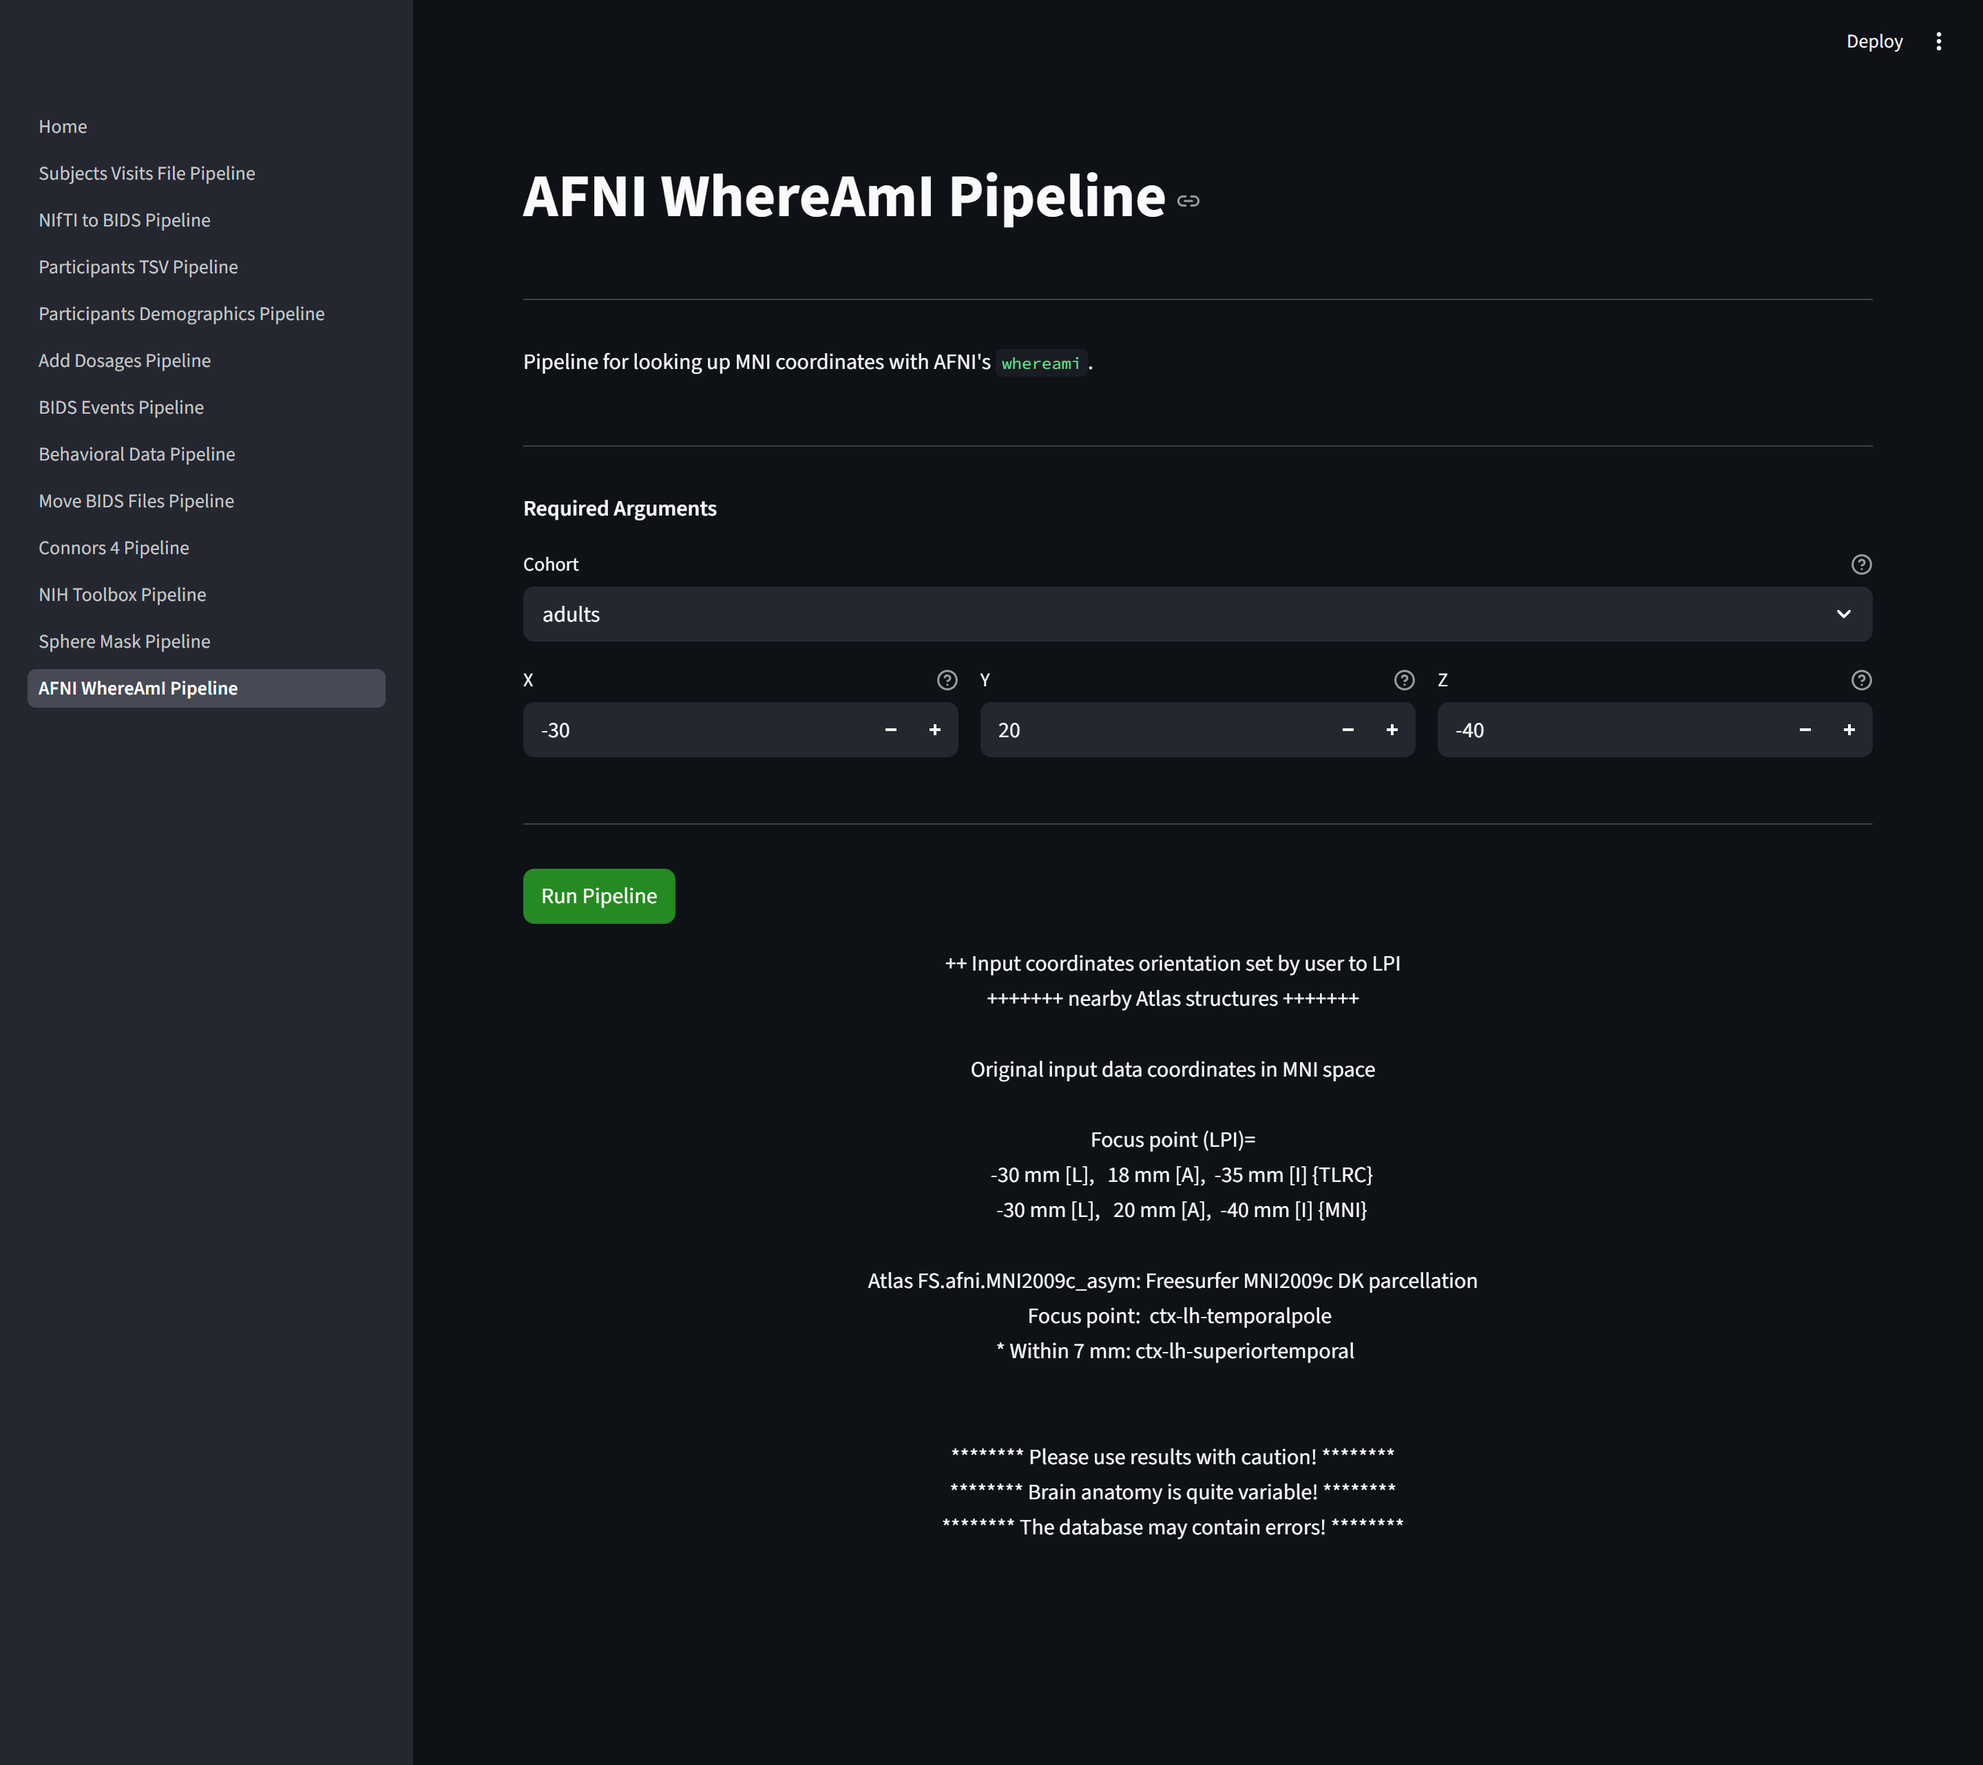
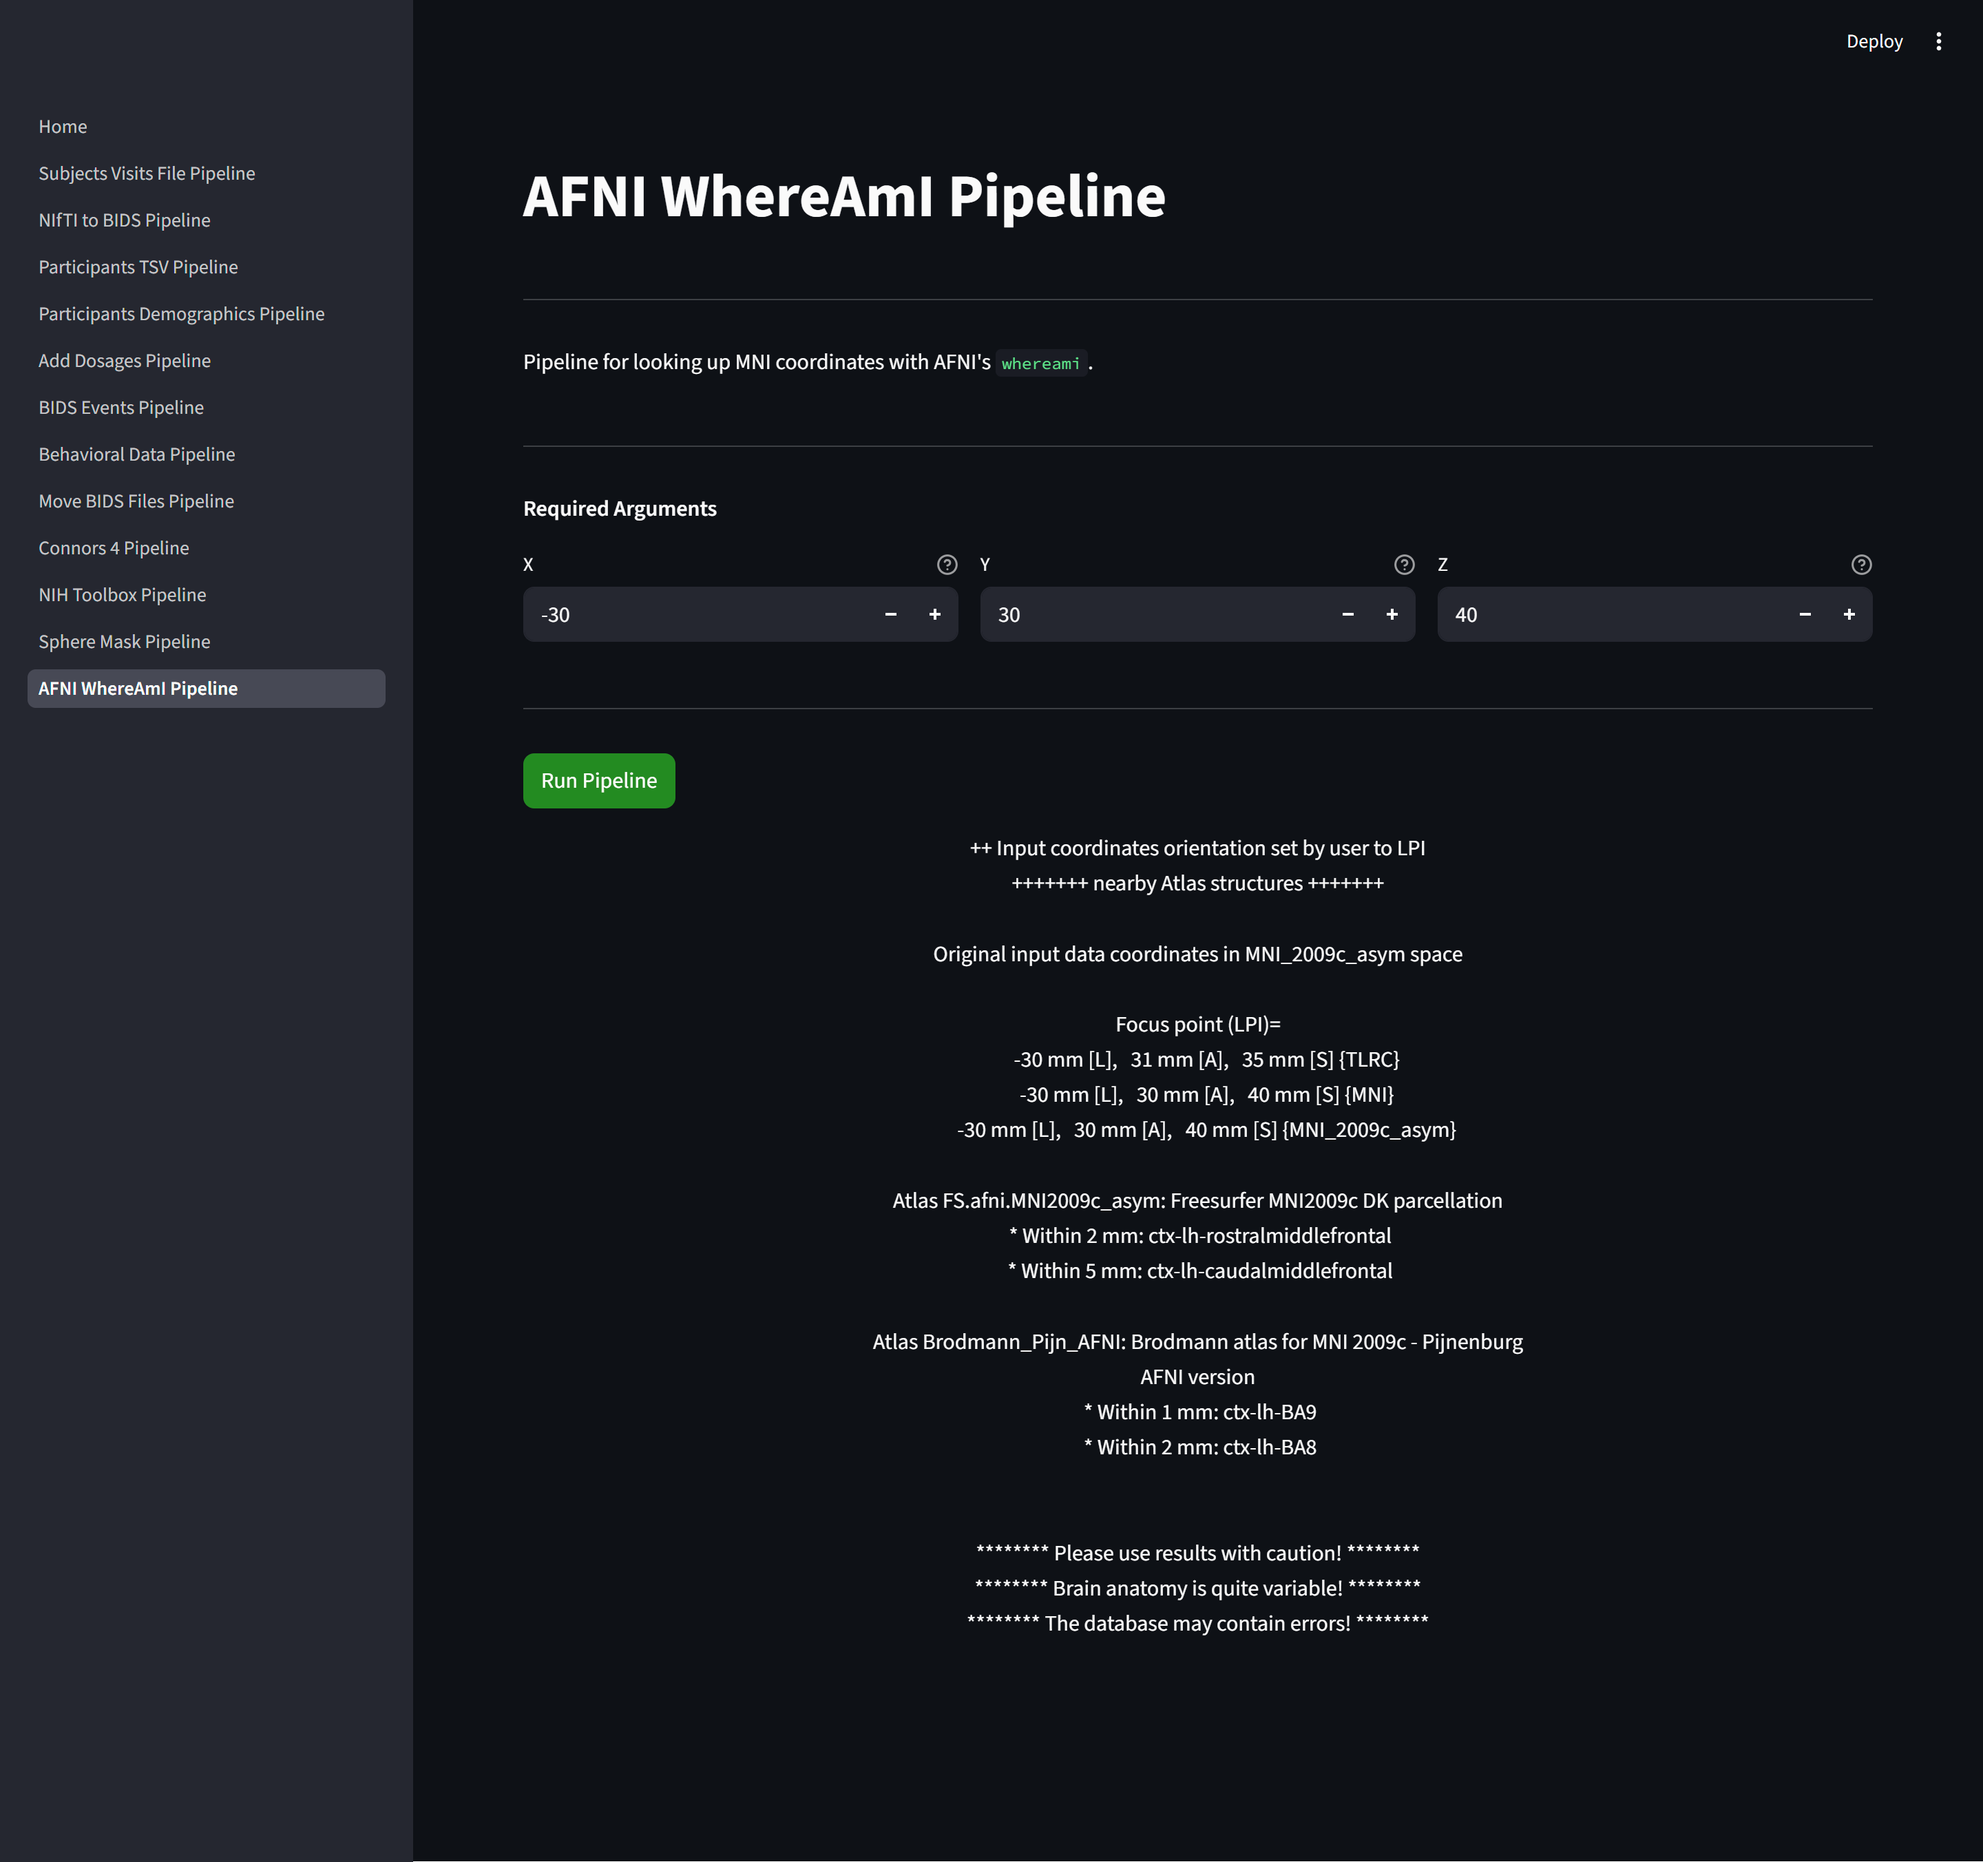
Make latest afni version

diff --git a/afni_whereami/whereami_app.py b/afni_whereami/whereami_app.py
@@ -16,8 +16,6 @@ st.divider()
 
 st.markdown("**Required Arguments**")
 
-cohort = st.selectbox("Cohort", ("kids", "adults"), help="Determines the atlas used.")
-
 col1, col2, col3 = st.columns(3)
 
 with col1:
@@ -29,15 +27,10 @@ with col2:
 with col3:
     Z = st.number_input("Z", help="Z coordinate in MNI space.", format="%d", value=0)
 
-kwargs = {
-    "cohort": cohort,
-    "mni_coordinate": [X, Y, Z],
-}
-
 st.divider()
 
 if st.button("Run Pipeline", type="primary"):
     with st.spinner("Processing..."):
         col1, col2, col3 = st.columns([1, 2, 1])
         with col2:
-            st.text(run_pipeline(**kwargs), text_alignment="center")
+            st.text(run_pipeline(mni_coordinate=[X, Y, Z]), text_alignment="center")

diff --git a/server/server.py b/server/server.py
@@ -6,21 +6,15 @@ on Oracle Cloud. It's the free tier so the instance only has 1 GB ram and 1 OCPU
 import subprocess
 from fastapi import FastAPI
 
-ATLAS_NAMES = {
-    "kids": "Haskins_Pediatric_Nonlinear_1.01",
-    "adults": "FS.afni.MNI2009c_asym",
-}
-
 app = FastAPI()
 
 
 @app.post("/")
 def whereami(request_data: dict):
-    atlas = ATLAS_NAMES[request_data["cohort"]]
     cmd = (
         f"podman exec afni whereami "
         f"{request_data['x']} {request_data['y']} {request_data['z']} "
-        f"-lpi -space MNI -atlas {atlas}"
+        f"-lpi -space MNI_2009c_asym -atlas FS.afni.MNI2009c_asym -atlas Brodmann_Pijn_AFNI"
     )
     output = subprocess.run(cmd, shell=True, capture_output=True, text=True)
 

diff --git a/analyses/identify_cluster_locations.py b/analyses/identify_cluster_locations.py
@@ -85,7 +85,7 @@ def _get_cmd_args():
 def identify_mni_regions(afni_img_path, coord_filename, atlas):
     cmd = (
         f"apptainer exec -B /scratch:/scratch -B /projects:/projects {afni_img_path} whereami "
-        f"-lpi -coord_file {coord_filename} -space MNI -atlas {atlas}"
+        f"-lpi -coord_file {coord_filename} -space MNI_2009c_asym -atlas {atlas}"
     )
     std_output = subprocess.run(
         cmd, shell=True, check=True, capture_output=True, text=True

diff --git a/afni_whereami/whereami_cli.py b/afni_whereami/whereami_cli.py
@@ -8,13 +8,6 @@ def _get_cmd_args():
         description="Pipeline for looking up MNI coordinates with AFNI's whereami."
     )
     parser.add_argument(
-        "--cohort",
-        dest="cohort",
-        required=True,
-        choices=["kids", "adults"],
-        help="The name of the cohort.",
-    )
-    parser.add_argument(
         "--mni_coordinate",
         dest="mni_coordinate",
         required=True,

diff --git a/afni_whereami/whereami.py b/afni_whereami/whereami.py
@@ -14,11 +14,10 @@ def get_server():
         return f.read().strip()
 
 
-def run_pipeline(cohort, mni_coordinate):
+def run_pipeline(mni_coordinate):
     _check_coordinate(mni_coordinate)
 
     request_data = {
-        "cohort": cohort,
         "x": mni_coordinate[0],
         "y": mni_coordinate[1],
         "z": mni_coordinate[2],
